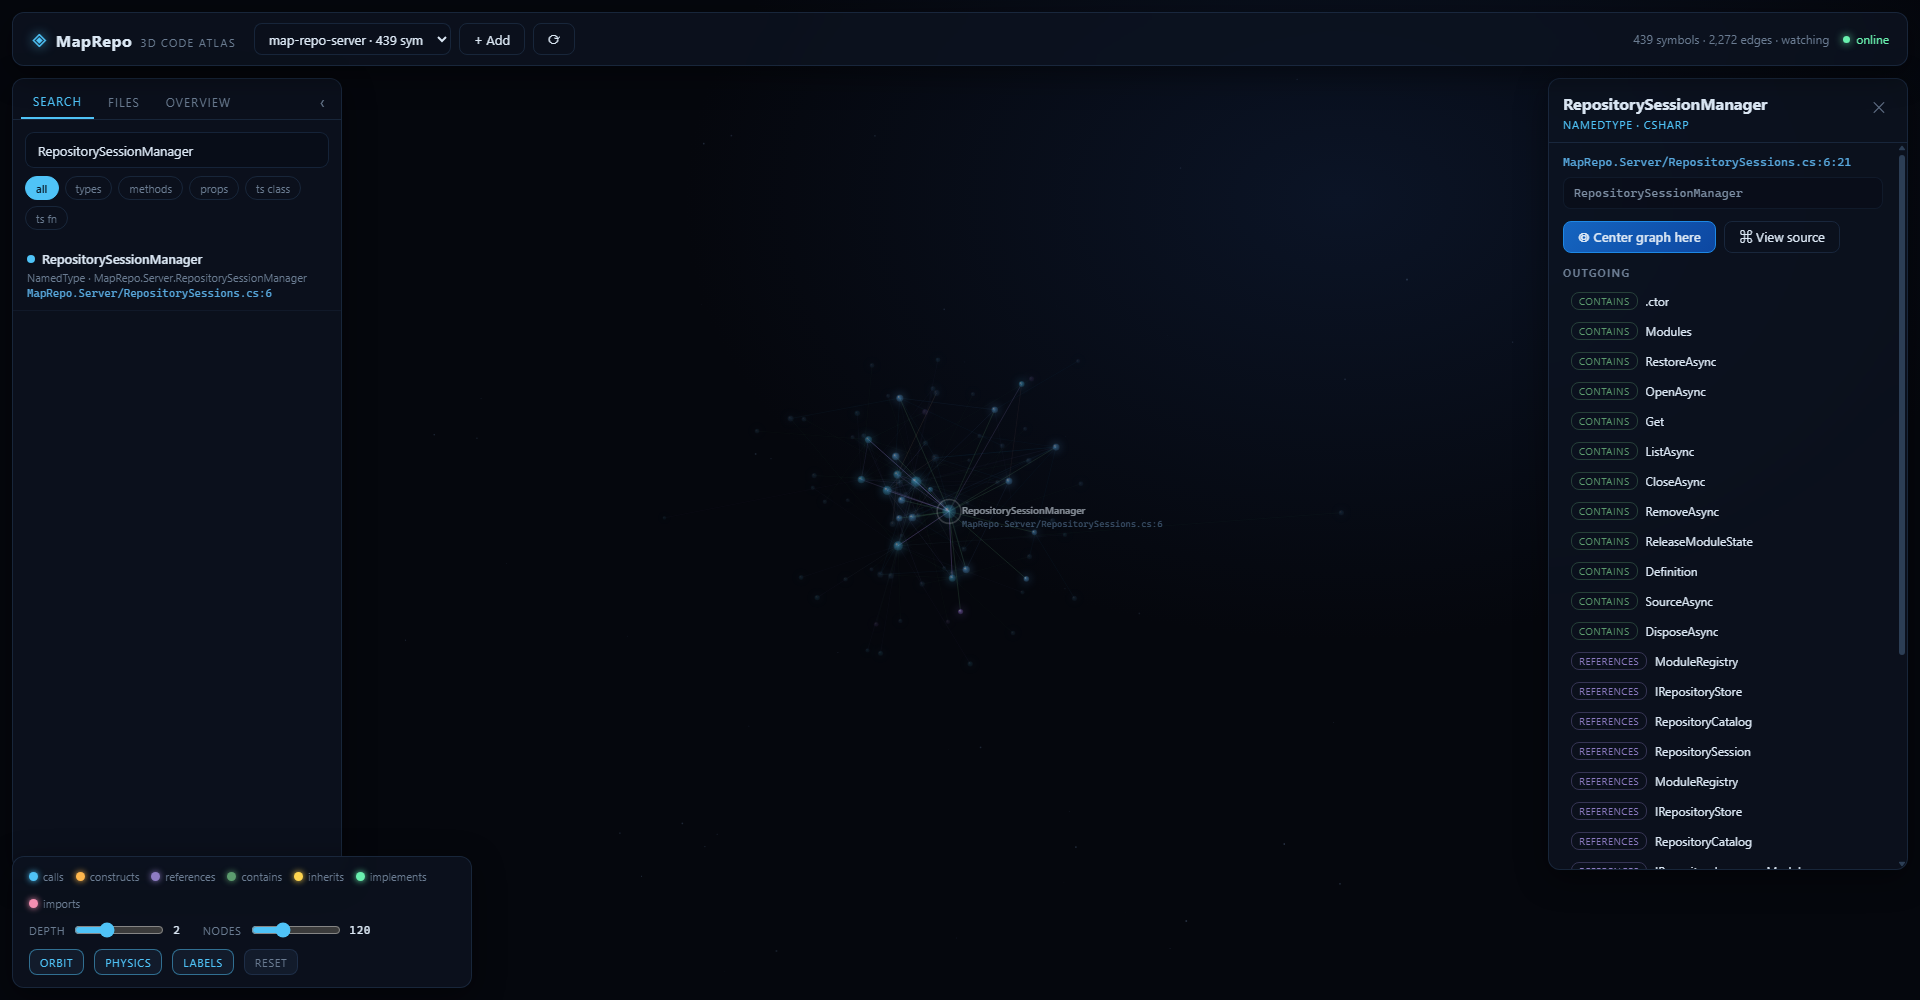
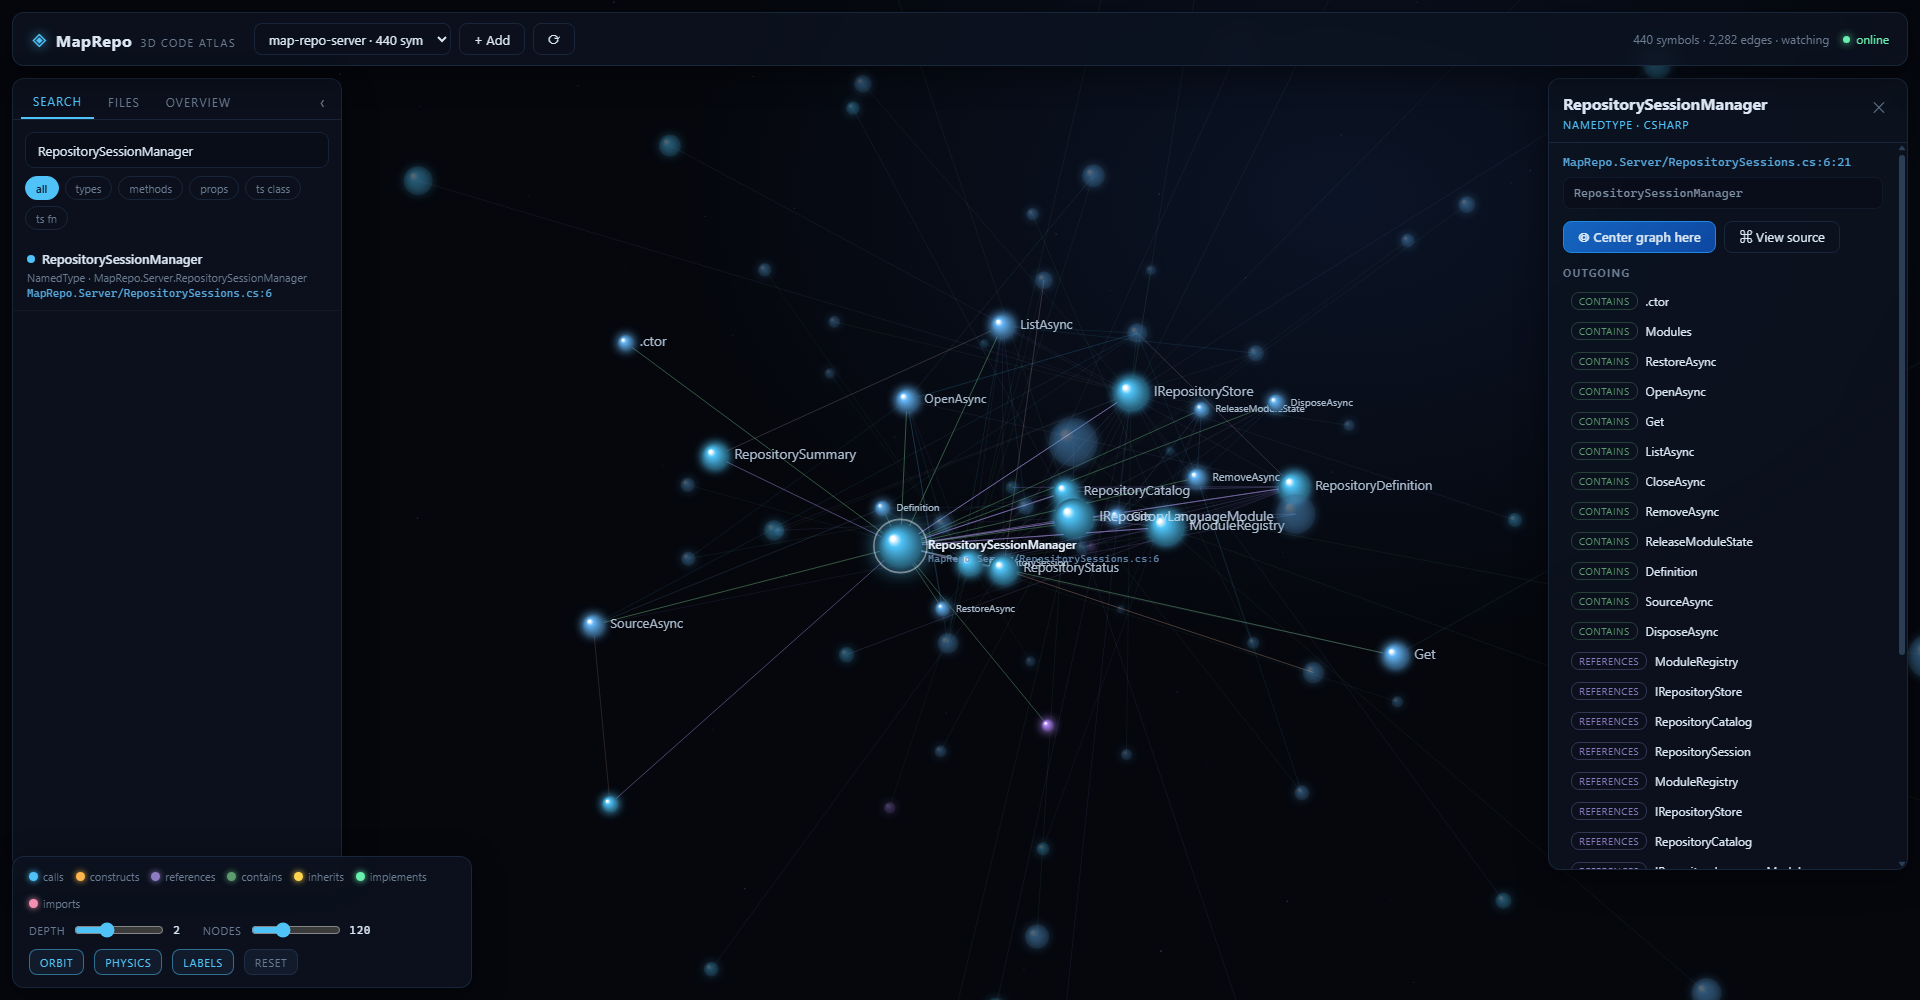
docs: closer atlas screenshot; deep link accepts dist parameter

diff --git a/MapRepo.Server/wwwroot/app.js b/MapRepo.Server/wwwroot/app.js
@@ -714,7 +714,9 @@ async function applyDeepLink() {
   $('query').value = q;
   await search();
   const first = document.querySelector('#results .result');
-  if (first) loadGraph(first.dataset.id, first.dataset.name);
+  if (first) await loadGraph(first.dataset.id, first.dataset.name);
+  const dist = parseFloat(params.get('dist'));
+  if (dist > 0) { autoFit = false; cam.targetDist = Math.max(220, Math.min(3200, dist)); }
 }
 
 /* ── Boot ───────────────────────────────────────────────── */